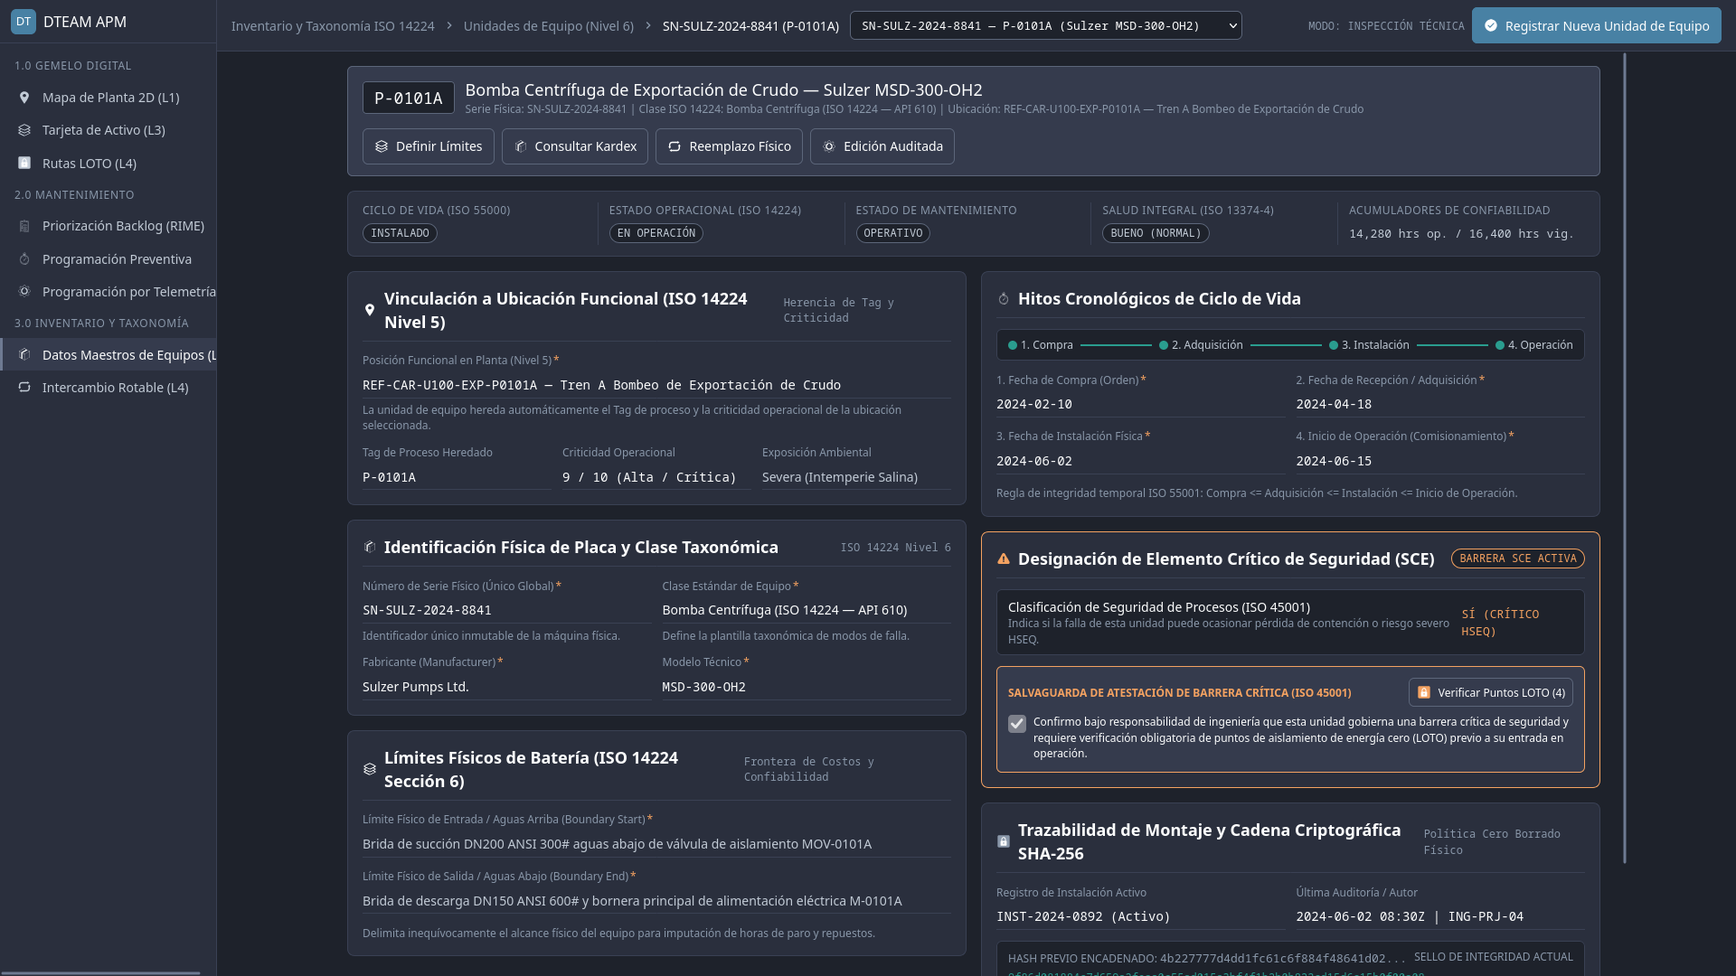
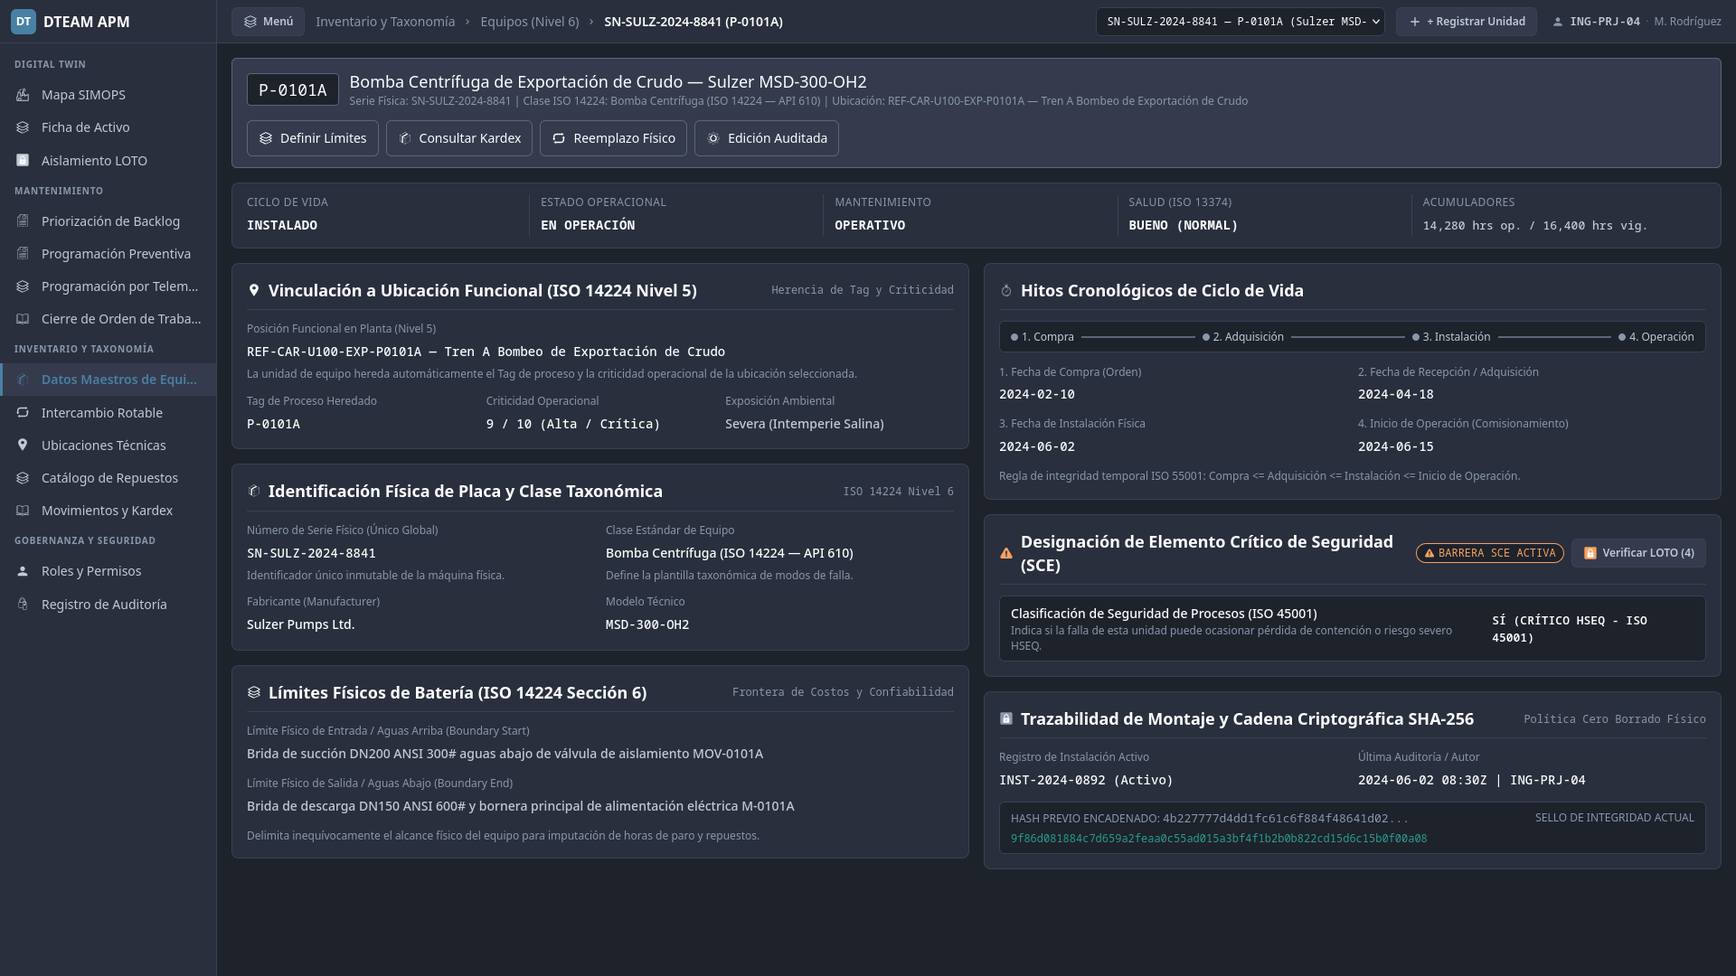
docs(ui): apply visual & ergonomic audit remediations to SCR-INV-005

diff --git a/ui-ux/screens/inv/SCR-INV-005.md b/ui-ux/screens/inv/SCR-INV-005.md
@@ -54,14 +54,14 @@ status: In Review
 | ID | Control / Component | Visual Role / Content | Semantic Token | Architectural Role & Reference |
 | :--- | :--- | :--- | :--- | :--- |
 | `CMP-01` | Portal Shell & Navigation Sidebar | Collapsible module navigation sidebar and mobile off-canvas navigation drawer | Surface: `--dt-color-surface-card`<br>Border: `--dt-color-border-subtle` | Hosts global module navigation per [DT-UI-NAV-DOC-001](../../DT-UI-NAV-DOC-001.md), highlighting "Equipment Master Data" under the Inventory domain. Responsive behavior in §8. |
-| `CMP-02` | Master Card Header & Mode Switcher | Breadcrumb trail, mobile menu trigger, equipment selector, and mode toggle bar | Surface: `--dt-color-surface-card`<br>Border: `--dt-color-border-subtle`<br>Typography: `--dt-font-h1` | Displays hierarchical breadcrumb trail, quick catalog switcher, mode indicator, and the primary `[+ Register Equipment Unit]` trigger for authorized engineering roles. Detailed in §5.1 and §5.2. |
+| `CMP-02` | Master Card Header & Mode Switcher | Breadcrumb trail, mobile menu trigger, compact equipment selector, user session badge, and workstation action button | Surface: `--dt-color-surface-card`<br>Border: `--dt-color-border-subtle`<br>Typography: `--dt-font-h1` | Displays hierarchical breadcrumb trail on the left, and on the right: compact catalog switcher, secondary action button `[+ Registrar Unidad]`, and operator session badge (`ING-PRJ-04 · M. Rodríguez`) without loose mode text. Detailed in §5.1 and §5.2. |
 | `CMP-03` | Contextual Handoff Action Toolbar | Level 3 cross-screen navigation action bar | Surface: `--dt-color-surface-raised`<br>Border: `--dt-color-border-panel`<br>Radius: `--dt-radius-md` | Exposes normative transitions defined in [DT-UI-NAV-DOC-001 §5](../../DT-UI-NAV-DOC-001.md#5-transition-matrix-and-access-control-rbac): `Define Boundaries` ([SCR-MTTO-029](../mtto/SCR-MTTO-029.md)), `Check Kardex` ([SCR-INV-006](SCR-INV-006.md)), `Physical Replacement` ([SCR-INV-025](SCR-INV-025.md)), and `Audited Edit`. Detailed in §5.2. |
-| `CMP-04` | Four-Dimensional Status Strip | Dynamic operational, lifecycle, maintenance, and health status pills | Surface: `--dt-color-surface-card`<br>Radius: `--dt-radius-full`<br>Typography: `--dt-font-caption` | Renders the four independent state dimensions defined in [DT-DM-DOC-001 §2.1](../../../domain-models/class/DT-DM-DOC-001.md#21-state-division-in-equipmentunit) alongside cumulative Operating Hours and Surveillance Hours in plain monospace text (`--dt-font-mono-data`). Detailed in §5.1. |
+| `CMP-04` | Four-Dimensional Status Strip | Dynamic operational, lifecycle, maintenance, and health status indicators | Surface: `--dt-color-surface-card`<br>Typography: `--dt-font-caption`, `--dt-font-mono-data` | Renders the four orthogonal state dimensions defined in [DT-DM-DOC-001 §2.1](../../../domain-models/class/DT-DM-DOC-001.md#21-state-division-in-equipmentunit) (`CICLO DE VIDA`, `ESTADO OPERACIONAL`, `MANTENIMIENTO`, `SALUD (ISO 13374)`) with single-line labels, displaying normal states as structured bold monospace text without pill capsule borders (`BADGE-001`), and reserving border pills strictly for anomalous states. Operating and Surveillance hours render alongside in monospace data text (`--dt-font-mono-data`). Detailed in §5.1. |
 | `CMP-05` | Functional Location Linkage Card | Hierarchical Level 5 location selector, storage custody, and inherited process metadata | Surface: `--dt-color-surface-card`<br>Border: `--dt-color-border-subtle`<br>Typography: `--dt-font-mono-data` | Links the Level 6 Equipment Unit to an ISO 14224 Level 5 Functional Location or displays active warehouse custody when in storage. Displays inherited process Tag Number, operational criticality, environmental exposure, and single-occupancy validation state. Detailed in §5.3.3. |
-| `CMP-06` | Nameplate & Taxonomic Identity Card | Physical identification and ISO 14224 class specification fields | Surface: `--dt-color-surface-card`<br>Border: `--dt-color-border-subtle`<br>Text: `--dt-color-text-primary`, `--dt-color-text-muted` | Captures and displays Serial Number (with optical barcode scan trigger on tablet), Manufacturer, Model, and Equipment Class. Static attributes render as structured plain text in View Mode per Anti-Badge-Inflation rules. Detailed in §5.3.1. |
+| `CMP-06` | Nameplate & Taxonomic Identity Card | Physical identification and ISO 14224 class specification fields | Surface: `--dt-color-surface-card`<br>Border: `--dt-color-border-subtle`<br>Text: `--dt-color-text-primary`, `--dt-color-text-muted` | Captures and displays Serial Number (with optical barcode scan trigger on tablet), Manufacturer, Model, and Equipment Class. In Inspection Mode, mandatory asterisks (`*`) and input underline borders (`border-bottom`) are suppressed to avoid pseudo-input confusion per Anti-Badge-Inflation rules. Detailed in §5.3.1. |
 | `CMP-07` | Physical Battery Limits Card | Upstream and downstream mechanical/electrical boundary definitions | Surface: `--dt-color-surface-card`<br>Border: `--dt-color-border-subtle`<br>Typography: `--dt-font-body-md` | Captures `BoundaryStart` (inlet/suction/supply interface) and `BoundaryEnd` (outlet/discharge/load interface) per ISO 14224 Section 6. Links to detailed sub-tree decomposition in [SCR-MTTO-029](../mtto/SCR-MTTO-029.md). Detailed in §5.3.1. |
-| `CMP-08` | Safety Critical Element (SCE) Governance Card | ISO 45001 safety barrier toggle and attestation banner | Surface: `--dt-color-surface-raised`<br>Border: `--dt-color-alarm-warning` or `--dt-color-border-subtle` | Controls the `IsSce` safety designation. When enabled, deploys the mandatory ISO 45001 safety barrier attestation guard and exposes a verification link to LOTO isolation routes ([SCR-VIS-011](../vis/SCR-VIS-011.md)). Detailed in §5.3.4. |
-| `CMP-09` | Chronological Milestones & Sequence Validator | Four-stage lifecycle date inputs, decommissioning metadata, and progression timeline | Surface: `--dt-color-surface-card`<br>Border: `--dt-color-border-subtle`<br>Alert: `--dt-color-alarm-warning` | Captures and visualizes `PurchaseDate`, `AcquisitionDate`, `InstallationDate`, and `OperationStartDate` (plus read-only decommissioning and rejection metadata when applicable). Evaluates the monotonic sequence invariant in real time. Detailed in §5.3.2. |
+| `CMP-08` | Safety Critical Element (SCE) Governance Card | ISO 45001 safety barrier badge and attestation banner | Surface: `--dt-color-surface-card`<br>Border: `--dt-color-border-subtle` | Controls the `IsSce` safety designation. In Inspection Mode, renders with neutral card border (`--dt-color-border-subtle`), displaying the static `▲ BARRERA SCE ACTIVA` badge and LOTO verification button (`[🔒 Verificar Puntos LOTO (4)]`), hiding the attestation checkbox to prevent alarm fatigue. In Onboarding or Audited Edit mode, expands the ISO 45001 attestation sub-panel with warning border (`--dt-color-alarm-warning`) and mandatory checkbox. Detailed in §5.3.4. |
+| `CMP-09` | Chronological Milestones & Sequence Validator | Four-stage lifecycle date inputs, decommissioning metadata, and progression timeline | Surface: `--dt-color-surface-card`<br>Border: `--dt-color-border-subtle`<br>Timeline: `--dt-color-text-muted`, `--dt-color-border-panel` | Captures and visualizes `PurchaseDate`, `AcquisitionDate`, `InstallationDate`, and `OperationStartDate`. In Inspection Mode, completed historical milestones render in neutral steel gray (`--dt-color-text-muted` and `--dt-color-border-panel`) per ANSI/ISA-101 normal state rules, reserving amber outline (`--dt-color-alarm-warning`) strictly for chronological progression violations (`AF-003`). Detailed in §5.3.2. |
 | `CMP-10` | Validation & Conflict Alert Banner | Redundant Shape + Color inline diagnostic and confirmation notification banner | Warning: `--dt-color-alarm-warning`<br>Critical: `--dt-color-alarm-critical`<br>Success: `--dt-color-state-success`<br>Radius: `--dt-radius-md` | Displays WCAG 2.1 AA redundant notifications (`#icon-warning`, `#icon-ban`, `#icon-check` + border + text) for missing mandatory fields, duplicate Serial Number conflicts, chronological violations, occupied Functional Location conflicts, or documentary confirmations. Detailed in §5.3. |
 | `CMP-11` | Installation History & Chained Audit Strip | Active mounting timeline and SHA-256 cryptographic seal | Surface: `--dt-color-surface-raised`<br>Border: `--dt-color-border-subtle`<br>Font: `--dt-font-mono-data` | Displays the active installation record (`InstallationId`, `InstalledAtUtc`) and the append-only SHA-256 cryptographic integrity hash chain. Detailed in §5.3.5. |
 | `CMP-12` | Transactional Commit & Governance Footer | Sticky bottom submission bar for registration and audited updates | Surface: `--dt-color-surface-card`<br>Border: `--dt-color-border-panel`<br>Primary Action: `--dt-color-state-info` | Hosts `[Cancel]`, mandatory audit justification input (when updating non-critical attributes in Audited Edit mode), and `[Formalize Equipment Unit]` primary commit button. Detailed in §5.3.6. |
@@ -72,7 +72,7 @@ status: In Review
 
 | State | Visual Modification in the Interface | Activation Condition |
 | :--- | :--- | :--- |
-| **Inspection Mode (Default View)** | Neutral grayscale cards (`--dt-color-surface-card`) displaying consolidated master attributes as structured read-only text (`--dt-color-text-primary`, `--dt-color-text-muted`) without input-box borders. Four-dimensional status pills rendered in `CMP-04`. Contextual handoff toolbar (`CMP-03`) active. Footer `CMP-12` hidden. | User navigates to `SCR-INV-005` from [SCR-INV-027](SCR-INV-027.md), [SCR-VIS-033](../vis/SCR-VIS-033.md), or selects an existing equipment unit from the catalog selector. |
+| **Inspection Mode (Default View)** | Neutral grayscale cards (`--dt-color-surface-card`) displaying consolidated master attributes as structured read-only text (`--dt-color-text-primary`, `--dt-color-text-muted`) without input-box borders or underline hairlines. Mandatory asterisks (`*`) are suppressed. Four-dimensional status rendered as structured bold text in `CMP-04`. SCE card (`CMP-08`) renders with neutral border and hides attestation checkboxes. Historical milestone timeline (`CMP-09`) renders in neutral steel gray. Contextual handoff toolbar (`CMP-03`) active. Footer `CMP-12` hidden. | User navigates to `SCR-INV-005` from [SCR-INV-027](SCR-INV-027.md), [SCR-VIS-033](../vis/SCR-VIS-033.md), or selects an existing equipment unit from the catalog selector. |
 | **Onboarding Mode (Empty Form)** | Form inputs in `CMP-05`..`CMP-09` transition to editable controls (`--dt-color-surface-base`). Status preview in `CMP-04` displays baseline initial states mapped to `EquipmentLifecycleStatus.Commissioning`, `EquipmentOperationalStatus.Standby`, `EquipmentMaintenanceStatus.Operational`, and `EquipmentHealthStatus.Undetermined` (§7.2.3). Handoff toolbar `CMP-03` hidden. Footer `CMP-12` visible. | Project Engineer or Reliability Engineer clicks `[+ Register Equipment Unit]` (`CMP-02`). |
 | **Audited Edit Mode (FR-120)** | Non-critical fields (`BoundaryStart`, `BoundaryEnd`, `OperationStartDate`, `IsSce`) unlock for editing while immutable identity fields (`SerialNumber`, `PurchaseDate`, `AcquisitionDate`) remain locked. Footer `CMP-12` displays mandatory audit justification input. | Authorized Engineer clicks `[Audited Edit]` in `CMP-03` during Inspection Mode. |
 | **Incomplete Mandatory Data (AF-001)** | Omitted mandatory inputs highlight with amber border (`--dt-color-alarm-warning`) and `#icon-warning` glyph. `CMP-10` renders warning banner: *"ISO 14224 Validation Error: Mandatory technical identification and physical boundary attributes are required to formalize the equipment unit."* | Engineer attempts to submit registration or triggers validation with empty Serial Number, Manufacturer, Model, Equipment Class, or Battery Limits (`AF-001`). |
@@ -121,10 +121,9 @@ sequenceDiagram
    * When invoked with an existing `EquipmentUnitId` or `FunctionalLocationId` (from [SCR-INV-027](SCR-INV-027.md) or [SCR-VIS-033](../vis/SCR-VIS-033.md)), the view initializes in **Inspection Mode**, loading `EquipmentUnitMasterCardDto` (§7.2.3) alongside its active installation timeline and latest SHA-256 audit entry.
    * When invoked with `InitialMode = MasterCardMode.Create` (or when clicking `[+ Register Equipment Unit]`), the view transitions to **Onboarding Mode**, binding an empty `RegisterEquipmentUnitCommand` form context and previewing the initial four-dimensional commissioning states (`EquipmentLifecycleStatus`, `EquipmentOperationalStatus`, `EquipmentMaintenanceStatus`, `EquipmentHealthStatus` defined in §7.2.3).
 2. **Four-Dimensional Status Split ([DT-DM-DOC-001 §2.1](../../../domain-models/class/DT-DM-DOC-001.md#21-state-division-in-equipmentunit)):**
-   * Rather than overloading a single status field, `CMP-04` renders four orthogonal status pills mapped to strongly-typed enums (§7.2.3): `EquipmentLifecycleStatus`, `EquipmentOperationalStatus`, `EquipmentMaintenanceStatus`, and `EquipmentHealthStatus`.
-   * Normal and baseline states (`EquipmentLifecycleStatus.Installed`, `EquipmentLifecycleStatus.InStorage`, `EquipmentLifecycleStatus.Decommissioned`, `EquipmentOperationalStatus.Up`, `EquipmentOperationalStatus.Standby`, `EquipmentMaintenanceStatus.Operational`, `EquipmentHealthStatus.Good`, and `EquipmentHealthStatus.Undetermined`) render in neutral HPHMI grayscale (`--dt-color-surface-base`, `--dt-color-text-body`, `--dt-color-border-panel`).
-   * Transitional or degraded states (`EquipmentLifecycleStatus.Commissioning`, `EquipmentMaintenanceStatus.UnderMaintenance`, `EquipmentMaintenanceStatus.UnderTest`, `EquipmentHealthStatus.Fair`, `EquipmentHealthStatus.SeriousButStable`, and `EquipmentHealthStatus.Serious`) bind to warning amber (`--dt-color-alarm-warning`).
-   * Failure or imminent hazard states (`EquipmentOperationalStatus.Down`, `EquipmentHealthStatus.CriticalButStable`, and `EquipmentHealthStatus.Critical`) bind to critical red (`--dt-color-alarm-critical`).
+   * Rather than overloading a single status field, `CMP-04` renders four orthogonal status indicators with single-line uppercase category headers (`CICLO DE VIDA`, `ESTADO OPERACIONAL`, `MANTENIMIENTO`, `SALUD (ISO 13374)`, `ACUMULADORES`).
+   * To enforce Anti-Badge-Inflation (`BADGE-001`), normal baseline states (`EquipmentLifecycleStatus.Installed`, `EquipmentLifecycleStatus.InStorage`, `EquipmentLifecycleStatus.Decommissioned`, `EquipmentOperationalStatus.Up`, `EquipmentOperationalStatus.Standby`, `EquipmentMaintenanceStatus.Operational`, `EquipmentHealthStatus.Good`, and `EquipmentHealthStatus.Undetermined`) render as structured bold monospace text (`--dt-font-mono-data`, `--dt-color-text-primary`) without capsule borders.
+   * Capsule pills with redundant glyphs and borders are reserved exclusively for anomalous, transitional, or degraded states (`EquipmentLifecycleStatus.Commissioning`, `EquipmentMaintenanceStatus.UnderMaintenance`, `EquipmentMaintenanceStatus.UnderTest`, `EquipmentHealthStatus.Fair`, `EquipmentHealthStatus.SeriousButStable`, and `EquipmentHealthStatus.Serious` binding to `--dt-color-alarm-warning`; `EquipmentOperationalStatus.Down`, `EquipmentHealthStatus.CriticalButStable`, and `EquipmentHealthStatus.Critical` binding to `--dt-color-alarm-critical`).
 
 ---
 
@@ -152,7 +151,7 @@ sequenceDiagram
 1. During onboarding (`RegisterEquipmentUnitCommand`, §7.2.3), all four lifecycle milestone dates (`PurchaseDate`, `AcquisitionDate`, `InstallationDate`, and planned `OperationStartDate`) are required `DateOnly` values. The client evaluates them against the deterministic chronological progression rule:
    $$\text{PurchaseDate} \le \text{AcquisitionDate} \le \text{InstallationDate} \le \text{OperationStartDate}$$
 2. Evaluation executes instantaneously ($< 50\text{ms}$) on every date change via client-side validation logic (`EquipmentUnit.ValidateChronology()`).
-3. If any date precedes its predecessor in the lifecycle chain, the offending date inputs highlight with `--dt-color-alarm-warning`, the timeline connector marks the broken link with `#icon-warning`, and submission is blocked (`AF-003`).
+3. In Inspection Mode, completed historical milestones render in neutral steel gray (`--dt-color-text-muted`, `--dt-color-border-panel`) in adherence to ANSI/ISA-101 Rule 90/10, prohibiting teal/green on historical states. If any date precedes its predecessor in the lifecycle chain during active form entry or editing, the offending date inputs highlight with `--dt-color-alarm-warning`, the timeline connector marks the broken link with `#icon-warning`, and submission is blocked (`AF-003`).
 
 #### 5.3.3. Hierarchical Functional Location Linkage & Single-Occupancy Rule (FR-116, AF-004)
 1. In `CMP-05`, the Engineer selects a target Level 5 Functional Location from the hierarchical plant taxonomy (`FunctionalLocationOptionDto`, §7.2.3). In Inspection Mode, if the unit is unmounted in warehouse custody (`EquipmentLifecycleStatus.InStorage`), `CMP-05` displays the assigned `WarehouseName` (`WarehouseId`).
@@ -160,8 +159,8 @@ sequenceDiagram
 3. **Single-Occupancy Invariant (`AF-004`):** If the selected Functional Location has `IsCurrentlyOccupied == true` (hosting an active mounted Equipment Unit where `RemovedAtUtc == null`), the system blocks direct mounting, displays the `AF-004` allocation alert (`#icon-ban` + `--dt-color-alarm-critical`) in `CMP-10`, and offers a direct trigger to execute a regulated Rotable Asset Swap ([SCR-INV-025](SCR-INV-025.md)) or select an unoccupied Functional Location.
 
 #### 5.3.4. Safety Critical Element (SCE) Attestation Guard (AF-005)
-1. When the Engineer toggles `IsSce = true` in `CMP-08`, the interface deploys an inline safety attestation guard requiring explicit checkbox confirmation (`IsSceAttested = true`) that the equipment unit governs critical barrier protection under ISO 45001.
-2. Enabling `IsSce` visually attaches the redundant triangle safety indicator (`#icon-warning`, `--dt-color-alarm-warning`) to `CMP-08` and prompts for verification of permanent LOTO isolation points ([SCR-VIS-011](../vis/SCR-VIS-011.md)). When `IsSce == false` in Inspection Mode, the classification renders as neutral plain text (`--dt-color-text-muted`) without a pill badge.
+1. In **Inspection Mode (View Mode)**, the SCE Governance Card (`CMP-08`) renders with neutral border (`--dt-color-border-subtle`), displaying the static `▲ BARRERA SCE ACTIVA` badge (`--dt-color-alarm-warning`) and navigation trigger `[🔒 Verificar Puntos LOTO (4)]` ([SCR-VIS-011](../vis/SCR-VIS-011.md)), while completely hiding the attestation checkbox to prevent static alarm fatigue. When `IsSce == false`, the classification renders as neutral plain text (`--dt-color-text-muted`) without a pill badge.
+2. In **Onboarding Mode** or **Audited Edit Mode**, toggling `IsSce = true` expands the ISO 45001 safety attestation panel with an amber caution border (`--dt-color-alarm-warning`) and requires explicit checkbox confirmation (`IsSceAttested = true`) that the equipment unit governs critical barrier protection under ISO 45001.
 
 #### 5.3.5. Cryptographic Audit Trail Chaining & Historical Preservation (TR-001, NFR-123, ADR-005)
 1. **No Hard-Delete Invariant (`NFR-123`):** Physical deletion of Equipment Unit master records is strictly prohibited by the presentation and domain layers to preserve historical MTBF and reliability records. Retirement is handled exclusively via controlled decommissioning state transitions (`DisposalDate`, `DisposalReason`).
@@ -182,8 +181,11 @@ sequenceDiagram
 
 * **ANSI/ISA-101 HPHMI 90/10 Grayscale Philosophy ([TR-011](../../../requirements/common/TR-011.md)):** The interface uses neutral grayscale surfaces (`--dt-color-surface-base`, `--dt-color-surface-card`, `--dt-color-surface-raised`) across 90% of the viewport. Saturated colors are reserved strictly for operational anomalies and documentary confirmations:
   * **Critical Red (`--dt-color-alarm-critical`):** Reserved for duplicate Serial Number conflicts (`AF-002`), occupied Functional Location collisions (`AF-004`), and `EquipmentOperationalStatus.Down` or `EquipmentHealthStatus.Critical` states (§7.2.3).
-  * **Warning Amber (`--dt-color-alarm-warning`):** Reserved for incomplete mandatory ISO 14224 fields (`AF-001`), chronological sequence violations (`AF-003`), SCE safety barrier attestations (`AF-005`), and transitional states (`EquipmentLifecycleStatus.Commissioning`, `EquipmentMaintenanceStatus.UnderMaintenance` per §7.2.3).
+  * **Warning Amber (`--dt-color-alarm-warning`):** Reserved for incomplete mandatory ISO 14224 fields (`AF-001`), chronological sequence violations (`AF-003`), active SCE safety barrier alerts (`AF-005`), and transitional states (`EquipmentLifecycleStatus.Commissioning`, `EquipmentMaintenanceStatus.UnderMaintenance` per §7.2.3).
   * **Documentary Confirmation Teal (`--dt-color-state-success`):** Used exclusively for verified Serial Number uniqueness, validated four-date chronological coherence in active edit/onboarding forms, and successful atomic registration confirmation (`#icon-check`). Green is never used for normal running status.
+  * **Prohibition of Green/Teal on Historical Milestones (`CMP-09`):** Completed historical milestones (Purchase, Acquisition, Installation, Operation) represent past baseline facts, not real-time success transactions. Rendered in neutral steel gray (`--dt-color-text-muted`, `--dt-color-border-panel`), reserving amber/red exclusively for chronological inversions (`AF-003`).
+  * **SCE Static Classification De-escalation (`CMP-08`):** Safety Critical Element designation is a permanent design characteristic, not an active process alarm. In Inspection Mode, the card border remains neutral (`--dt-color-border-subtle`), preventing alarm fatigue. Attestation checkboxes are strictly restricted to mutation workflows (Onboarding / Audited Edit).
+  * **Read-Only Visual Hygiene (`CMP-05` to `CMP-09`):** In Inspection Mode, all mandatory asterisks (`*`) and field underline borders (`border-bottom`) are suppressed, preventing cognitive confusion with active form inputs.
 * **Anti-Badge-Inflation Discipline ([DT-UI-DS-DOC-001 §6.5](../../DT-UI-DS-DOC-001.md#65-status-badge-counter-discipline-anti-badge-inflation-principle)):** Capsule status pills (`--dt-radius-full`) are restricted to the four dynamic status dimensions in `CMP-04`, active SCE safety barrier alerts in `CMP-08`, and live chronological validation feedback during form editing in `CMP-09`. In read-only Inspection Mode, static technical metadata (`SerialNumber`, `Manufacturer`, `Model`, `EquipmentClassName`, `BoundaryStart`, `BoundaryEnd`, `PurchaseDate`, `AcquisitionDate`, `TagNumber`, `Criticality`, non-SCE status, and historical chronology) render strictly as clean structured text using `--dt-color-text-primary` and `--dt-color-text-muted` without input-box borders or decorative pills, eliminating visual competition with interactive buttons (`--dt-radius-md`).
 * **Typography Hierarchy:** Equipment tags, serial numbers, operating hours, and SHA-256 integrity hashes bind strictly to monospace data and primary text tokens (`--dt-font-mono-data`, `--dt-color-text-primary`). Section headers bind to `--dt-font-h2`, technical descriptions bind to `--dt-font-body-md`, and field labels bind to `--dt-font-caption` in muted slate (`--dt-color-text-muted`).
 * **Interactive Control Neutrality:** Focus rings, active sidebar indicators, and form input borders in dark and light themes bind strictly to neutral tokens (`--dt-color-border-focus`, `--dt-color-text-muted`), avoiding uncodified chromatic accents.
